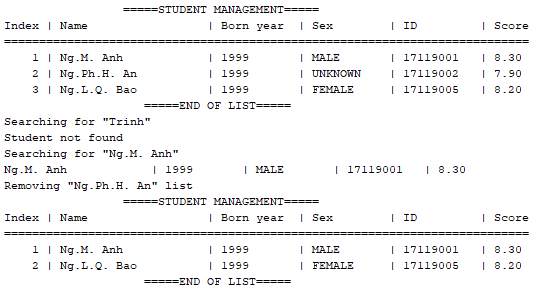
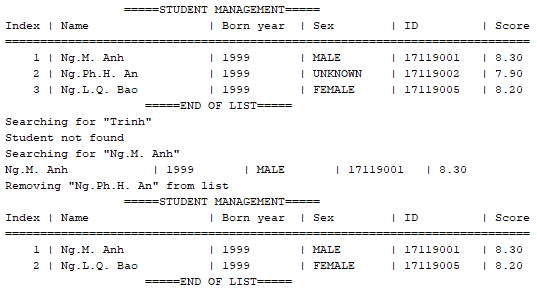
Edited main()

diff --git a/src/studentmanagement/StudentManagement.java b/src/studentmanagement/StudentManagement.java
@@ -36,7 +36,7 @@ public class StudentManagement {
         catch(Exception e){
             System.out.println("Student not found");
         }
-        System.out.println("Removing \"Ng.Ph.H. An\" list");
+        System.out.println("Removing \"Ng.Ph.H. An\" from list");
         StudentList_KMT17.RemoveStudentByName("Ng.Ph.H. An");
         StudentList_KMT17.ShowList();
     }    
